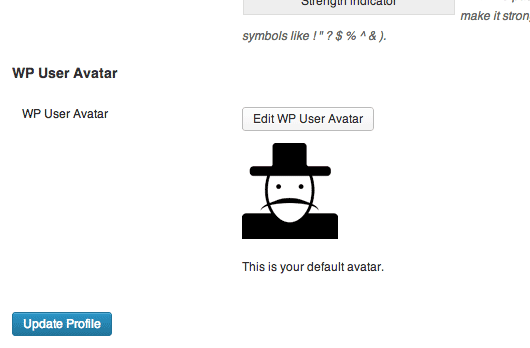
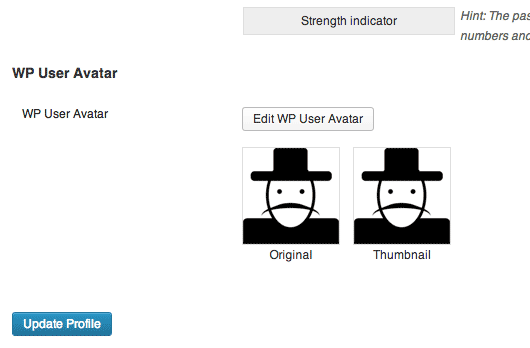
Update screenshots. Fix little bugs.

diff --git a/js/wp-user-avatar.js b/js/wp-user-avatar.js
@@ -1,1 +1,1 @@
-function openMediaUploader(c){wp.media.wpUserAvatar={get:function(){return wp.media.view.settings.post.wpUserAvatarId},set:function(a){var b=wp.media.view.settings;b.post.wpUserAvatarId=a;b.post.wpUserAvatarSrc=jQuery('div.attachment-info').find('img').attr('src');if(b.post.wpUserAvatarId){setWPUserAvatar(b.post.wpUserAvatarId,b.post.wpUserAvatarSrc);jQuery('#wp_user_avatar_radio').trigger('click')}},frame:function(){if(this._frame){return this._frame}this._frame=wp.media({state:'library',states:[new wp.media.controller.Library({title:"Edit WP User Avatar: "+c})]});this._frame.on('open',function(){var a=this.state().get('selection');id=jQuery('#wp-user-avatar').val();attachment=wp.media.attachment(id);attachment.fetch();a.add(attachment?[attachment]:[])},this._frame);this._frame.on('toolbar:create:select',function(a){this.createSelectToolbar(a,{text:'Set WP User Avatar'})},this._frame);this._frame.state('library').on('select',this.select);return this._frame},select:function(a){var b=wp.media.view.settings,selection=this.get('selection').single();wp.media.wpUserAvatar.set(selection?selection.id:-1)},init:function(){jQuery('body').on('click','#add-wp-user-avatar',function(e){e.preventDefault();e.stopPropagation();wp.media.wpUserAvatar.frame().open()})}};jQuery(wp.media.wpUserAvatar.init)}function openThickboxUploader(a,b){jQuery('body').on('click','#add-wp-user-avatar',function(e){e.preventDefault();tb_show('Edit WP User Avatar: '+a,b)})}function setWPUserAvatar(a,b){jQuery('#wp-user-avatar',window.parent.document).val(a);jQuery('#wp-user-avatar-preview',window.parent.document).find('img').attr('src',b).removeAttr('width','').removeAttr('height','');jQuery('#wp-user-avatar-message',window.parent.document).show();jQuery('#remove-wp-user-avatar',window.parent.document).show();jQuery('#wp-user-avatar-notice',window.parent.document).hide();jQuery('#wp_user_avatar_radio',window.parent.document).trigger('click');if(typeof(wp)!='undefined'){wp.media.wpUserAvatar.frame().close()}else{window.parent.tb_remove()}}function removeWPUserAvatar(a){jQuery('body').on('click','#remove-wp-user-avatar',function(e){e.preventDefault();jQuery(this).hide();jQuery('#wp-user-avatar-preview').find('img').attr('src',a).removeAttr('width','').removeAttr('height','');jQuery('#wp-user-avatar').val('');jQuery('#wp-user-avatar-message, #wp-user-avatar-notice').show();jQuery('#wp_user_avatar_radio').trigger('click')})}jQuery(document).ready(function(){jQuery('#your-profile','#bbp-your-profile').attr('enctype','multipart/form-data')});
+eval(function(p,a,c,k,e,r){e=function(c){return(c<a?'':e(parseInt(c/a)))+((c=c%a)>35?String.fromCharCode(c+29):c.toString(36))};if(!''.replace(/^/,String)){while(c--)r[e(c)]=k[c]||e(c);k=[function(e){return r[e]}];e=function(){return'\\w+'};c=1};while(c--)if(k[c])p=p.replace(new RegExp('\\b'+e(c)+'\\b','g'),k[c]);return p}('3 1q(c){0.7.k={M:3(){v 0.7.x.y.i.o},X:3(a){s b=0.7.x.y;b.i.o=a;b.i.T=2(\'19.h-18\').K(\'L\').m(\'q\');r(b.i.o){R(b.i.o,b.i.T);2(\'#t\').u(\'g\')}},w:3(){r(6.8){v 6.8}6.8=0.7({z:\'Q\',12:[1r 0.7.1d.1a({13:"V H I J: "+c})]});6.8.j(\'S\',3(){s a=6.z().M(\'l\');D=2(\'#0-4-5\').F();h=0.7.h(D);h.17();a.E(h?[h]:[])},6.8);6.8.j(\'1b:1c:p\',3(a){6.1e(a,{1f:\'1g H I J\'})},6.8);6.8.z(\'Q\').j(\'p\',6.p);v 6.8},p:3(a){s b=0.7.x.y,l=6.M(\'l\').1h();0.7.k.X(l?l.D:-1)},P:3(){2(\'C\').j(\'g\',\'#E-0-4-5\',3(e){e.A();e.14();0.7.k.w().S()})}};2(0.7.k.P)}3 15(a,b){2(\'C\').j(\'g\',\'#E-0-4-5\',3(e){e.A();16(\'V H I J: \'+a,b)})}3 R(a,b){2(\'#0-4-5\',f.d.9).F(a);2(\'#0-4-5-O\',f.d.9).K(\'L\').m(\'q\',b).n(\'U\',\'\').n(\'N\',\'\');2(\'#0-4-5-W\',f.d.9).G();2(\'#Y-0-4-5\',f.d.9).G();2(\'#0-4-5-Z\',f.d.9).B();2(\'#t\',f.d.9).u(\'g\');r(1i(0)!=\'1j\'){0.7.k.w().1k()}1l{f.d.1m()}}3 1n(a){2(\'C\').j(\'g\',\'#Y-0-4-5\',3(e){e.A();2(6).B();2(\'#1o-0-4-5, #0-4-5-Z\').B();2(\'#0-4-5-O\').K(\'L\').m(\'q\',a).n(\'U\',\'\').n(\'N\',\'\');2(\'#0-4-5\').F(\'\');2(\'#0-4-5-W\').G();2(\'#t\').u(\'g\')})}2(9).1p(3(){2(\'#10-11\',\'#1s-10-11\').m(\'1t\',\'1u/1v-1w\')});',62,95,'wp||jQuery|function|user|avatar|this|media|_frame|document||||parent||window|click|attachment|post|on|wpUserAvatar|selection|attr|removeAttr|wpUserAvatarId|select|src|if|var|wp_user_avatar_radio|trigger|return|frame|view|settings|state|preventDefault|hide|body|id|add|val|show|WP|User|Avatar|find|img|get|height|preview|init|library|setWPUserAvatar|open|wpUserAvatarSrc|width|Edit|message|set|remove|thumbnail|your|profile|states|title|stopPropagation|openThickboxUploader|tb_show|fetch|info|div|Library|toolbar|create|controller|createSelectToolbar|text|Set|single|typeof|undefined|close|else|tb_remove|removeWPUserAvatar|edit|ready|openMediaUploader|new|bbp|enctype|multipart|form|data'.split('|'),0,{}))

diff --git a/includes/tinymce/editor_plugin.js b/includes/tinymce/editor_plugin.js
@@ -1,1 +1,1 @@
-(function(){tinymce.PluginManager.requireLangPack('wpUserAvatar');tinymce.create('tinymce.plugins.wpUserAvatar',{init:function(ed,url){ed.addCommand('mceWpUserAvatar',function(){ed.windowManager.open({file:ajaxurl+'?action=wp_user_avatar_tinymce',width:400,height:285,inline:1},{plugin_url:url})});ed.addButton('wpUserAvatar',{title:'Insert WP User Avatar',cmd:'mceWpUserAvatar',image:url+'/../../images/wp-user-avatar-32x32.png'});ed.onNodeChange.add(function(ed,cm,n){cm.setActive('wpUserAvatar',n.nodeName=='IMG')})},createControl:function(n,cm){return null},getInfo:function(){return{longname:'WP User Avatar',author:'Bangbay Siboliban',authorurl:'http://siboliban.org/',infourl:'http://wordpress.org/extend/plugins/wp-user-avatar/',version:"1.4"}}});tinymce.PluginManager.add('wpUserAvatar',tinymce.plugins.wpUserAvatar)})();
+(function(){tinymce.PluginManager.requireLangPack('wpUserAvatar');tinymce.create('tinymce.plugins.wpUserAvatar',{init:function(ed,url){ed.addCommand('mceWpUserAvatar',function(){ed.windowManager.open({file:ajaxurl+'?action=wp_user_avatar_tinymce',width:400,height:295,inline:1},{plugin_url:url})});ed.addButton('wpUserAvatar',{title:'Insert WP User Avatar',cmd:'mceWpUserAvatar',image:url+'/../../images/wp-user-avatar-32x32.png'});ed.onNodeChange.add(function(ed,cm,n){cm.setActive('wpUserAvatar',n.nodeName=='IMG')})},createControl:function(n,cm){return null},getInfo:function(){return{longname:'WP User Avatar',author:'Bangbay Siboliban',authorurl:'http://siboliban.org/',infourl:'http://wordpress.org/extend/plugins/wp-user-avatar/',version:"1.4"}}});tinymce.PluginManager.add('wpUserAvatar',tinymce.plugins.wpUserAvatar)})();

diff --git a/js/wp-user-avatar.src.js b/js/wp-user-avatar.src.js
@@ -66,7 +66,7 @@ function setWPUserAvatar(attachment, imageURL){
   jQuery('#wp-user-avatar-preview', window.parent.document).find('img').attr('src', imageURL).removeAttr('width', '').removeAttr('height', '');
   jQuery('#wp-user-avatar-message', window.parent.document).show();
   jQuery('#remove-wp-user-avatar', window.parent.document).show();
-  jQuery('#wp-user-avatar-notice', window.parent.document).hide();
+  jQuery('#wp-user-avatar-thumbnail', window.parent.document).hide();
   jQuery('#wp_user_avatar_radio', window.parent.document).trigger('click');
   // Check if WP 3.5
   if(typeof(wp) != 'undefined'){
@@ -81,9 +81,10 @@ function removeWPUserAvatar(avatar_thumb){
   jQuery('body').on('click', '#remove-wp-user-avatar', function(e){
     e.preventDefault();
     jQuery(this).hide();
+    jQuery('#edit-wp-user-avatar, #wp-user-avatar-thumbnail').hide();
     jQuery('#wp-user-avatar-preview').find('img').attr('src', avatar_thumb).removeAttr('width', '').removeAttr('height', '');
     jQuery('#wp-user-avatar').val('');
-    jQuery('#wp-user-avatar-message, #wp-user-avatar-notice').show();
+    jQuery('#wp-user-avatar-message').show();
     jQuery('#wp_user_avatar_radio').trigger('click');
   });
 }

diff --git a/css/wp-user-avatar.css b/css/wp-user-avatar.css
@@ -1,8 +1,10 @@
-#wp-user-avatar-message { color: #c00; display: none; }
 #wp-user-avatar-errors { color: #c00; font-weight: 700; }
-#wp-user-avatar-preview img { max-width: 96px; }
-.defaultavatarpicker #wp-user-avatar-preview { width: 32px; height: 32px; display: inline-block; overflow: hidden; vertical-align: middle; }
-.defaultavatarpicker #wp-user-avatar-preview img { width: 32px; }
+#wp-user-avatar-message { color: #c00; display: none; }
+#wp-user-avatar-preview, #wp-user-avatar-thumbnail { display: inline-block; text-align: center; vertical-align: top; }
+#wp-user-avatar-preview { margin-right: 10px; }
+#wp-user-avatar-preview img, #wp-user-avatar-thumbnail img { height: 96px; border: 1px solid #dfdfdf; display: block; }
+.defaultavatarpicker #wp-user-avatar-preview { width: 32px; height: 32px; margin-right: 0; display: inline-block; overflow: hidden; vertical-align: middle; }
+.defaultavatarpicker #wp-user-avatar-preview img { width: 32px; height: auto; border: 0; }
 #edit-wp-user-avatar { padding-left: 15px; }
 #edit-wp-user-avatar #remove-wp-user-avatar { margin-left: 10px; }
 .hide-me, .wp-core-ui .hide-me { display: none; }

diff --git a/includes/tinymce/editor_plugin.src.js b/includes/tinymce/editor_plugin.src.js
@@ -21,7 +21,7 @@
             // call content via admin-ajax, no need to know the full plugin path
           file : ajaxurl + '?action=wp_user_avatar_tinymce',
           width : 400,
-          height : 285,
+          height : 295,
           inline : 1
         }, {
           plugin_url : url // Plugin absolute URL

diff --git a/wp-user-avatar.php b/wp-user-avatar.php
@@ -42,15 +42,19 @@ if($wpua_tinymce == '1'){
 }
 
 // Initialize default settings
-register_activation_hook(__FILE__, 'wpua_options');
+register_activation_hook(WPUA_ABSPATH.'wp-user-avatar.php', 'wpua_options');
+
+// Remove subscribers edit_posts capability
+register_deactivation_hook(WPUA_ABSPATH.'wp-user-avatar.php', 'wpua_deactivate');
 
 // Settings saved to wp_options
 function wpua_options(){
+  global $wp_user_roles;
   add_option('avatar_default_wp_user_avatar', '');
   add_option('wp_user_avatar_tinymce', '1');
   add_option('wp_user_avatar_allow_upload', '0');
 }
-add_action('init', 'wpua_options');
+add_action('admin_init', 'wpua_options');
 
 // Update default avatar to new format
 if(empty($wpua_default_avatar_updated)){
@@ -69,7 +73,7 @@ if(empty($wpua_default_avatar_updated)){
     }
     update_option('wp_user_avatar_default_avatar_updated', '1');
   }
-  add_action('init', 'wpua_default_avatar');
+  add_action('admin_init', 'wpua_default_avatar');
 }
 
 // Rename user meta to match database settings
@@ -91,7 +95,7 @@ if(empty($wpua_users_updated)){
     }
     update_option('wp_user_avatar_users_updated', '1'); 
   }
-  add_action('init', 'wpua_user_meta');
+  add_action('admin_init', 'wpua_user_meta');
 }
 
 // Add media state to existing avatars
@@ -106,14 +110,93 @@ if(empty($wpua_media_updated)){
     }
     update_option('wp_user_avatar_media_updated', '1'); 
   }
-  add_action('init', 'wpua_media_state');
+  add_action('admin_init', 'wpua_media_state');
+}
+
+// Settings for Subscribers
+if($wpua_allow_upload == '1'){
+  // Check user role
+  function check_user_role($role, $user_id=null){
+    global $current_user;
+    if(is_numeric($user_id)){
+      $user = get_userdata($user_id);
+    } else {
+      $user = $current_user->ID;
+    }
+    if(empty($user)){
+      return false;
+    }
+    return in_array($role, (array) $user->roles);
+  }
+
+  // Give subscribers edit_posts capability
+  function wpua_subscriber_add_cap(){
+    global $wpdb, $blog_id;
+    $wp_user_roles = $wpdb->get_blog_prefix($blog_id).'user_roles';
+    $user_roles = get_option($wp_user_roles);
+    $user_roles['subscriber']['capabilities']['edit_posts'] = true;
+    update_option($wp_user_roles, $user_roles);
+  }
+  add_action('admin_init', 'wpua_subscriber_add_cap');
+
+  // Remove menu items
+  function wpua_subscriber_remove_menu_pages(){
+    global $current_user;
+    if(check_user_role('subscriber', $current_user->ID)){
+      remove_menu_page('edit.php');
+      remove_menu_page('edit-comments.php');
+      remove_menu_page('tools.php');
+    }
+  }
+  add_action('admin_menu', 'wpua_subscriber_remove_menu_pages');
+
+  // Remove dashboard items
+  function wpua_subscriber_remove_dashboard_widgets(){
+    global $current_user;
+    if(check_user_role('subscriber', $current_user->ID)){
+      remove_meta_box('dashboard_quick_press', 'dashboard', 'side');
+      remove_meta_box('dashboard_recent_drafts', 'dashboard', 'side');
+      remove_meta_box('dashboard_right_now', 'dashboard', 'normal');
+    }
+  }
+  add_action('wp_dashboard_setup', 'wpua_subscriber_remove_dashboard_widgets');
+
+  // Restrict access to pages
+  function wpua_subscriber_offlimits(){
+    global $current_user, $pagenow;
+    $offlimits = array('edit.php', 'post-new.php', 'edit-comments.php', 'tools.php');
+    if(check_user_role('subscriber', $current_user->ID)){
+      if(in_array($pagenow, $offlimits)){
+        do_action('admin_page_access_denied');
+        wp_die(__('You do not have sufficient permissions to access this page.'));
+      }
+    }
+  }
+  add_action('admin_init', 'wpua_subscriber_offlimits');
+}
+
+// Remove subscribers edit_posts capability
+function wpua_subscriber_remove_cap(){
+  global $wpdb, $blog_id;
+  $wp_user_roles = $wpdb->get_blog_prefix($blog_id).'user_roles';
+  $user_roles = get_option($wp_user_roles);
+  unset($user_roles['subscriber']['capabilities']['edit_posts']);
+  update_option($wp_user_roles, $user_roles);
+}
+
+// On deactivation
+function wpua_deactivate(){
+  // Remove subscribers edit_posts capability
+  wpua_subscriber_remove_cap();
+  // Reset all default avatar to Mystery Man
+  update_option('avatar_default', 'mystery');
 }
 
 // WP User Avatar
 if(!class_exists('wp_user_avatar')){
   class wp_user_avatar{
     function wp_user_avatar(){
-      global $current_user, $show_avatars, $wpua_allow_upload ;
+      global $current_user, $show_avatars, $wpua_allow_upload, $pagenow;
       // Adds WPUA to profile
       if(current_user_can('upload_files') || ($wpua_allow_upload == '1' && is_user_logged_in())){
         add_action('show_user_profile', array('wp_user_avatar', 'wpua_action_show_user_profile'));
@@ -131,7 +214,7 @@ if(!class_exists('wp_user_avatar')){
           add_action('wp_enqueue_scripts', array($this, 'wpua_media_upload_scripts'));
         }
         // Only add attachment field for WP 3.4 and older
-        if(!function_exists('wp_enqueue_media')){
+        if(!function_exists('wp_enqueue_media') && $pagenow == 'media-upload.php'){
           add_filter('attachment_fields_to_edit', array($this, 'wpua_add_attachment_field_to_edit'), 10, 2); 
         }
         // Hide column in Users table if default avatars are enabled
@@ -151,9 +234,11 @@ if(!class_exists('wp_user_avatar')){
       $hide_notice = has_wp_user_avatar($user->ID) ? ' class="hide-me"' : '';
       $hide_remove = !has_wp_user_avatar($user->ID) ? ' hide-me' : '';
       // If avatars are enabled, get original avatar image or show blank
-      $avatar_medium_src = ($show_avatars == '1') ? wpua_get_avatar_original($user->user_email, 96) : includes_url().'images/blank.gif';
+      $avatar_medium_src = ($show_avatars == '1' && is_admin()) ? wpua_get_avatar_original($user->user_email, 96) : includes_url().'images/blank.gif';
       // Check if user has wp_user_avatar, if not show image from above
-      $avatar_medium = has_wp_user_avatar($user->ID) ?  get_wp_user_avatar_src($user->ID, 'medium') : $avatar_medium_src;
+      $avatar_medium = has_wp_user_avatar($user->ID) ? get_wp_user_avatar_src($user->ID, 'medium') : $avatar_medium_src;
+      // Check if user has wp_user_avatar, if not show image from above
+      $avatar_thumbnail = has_wp_user_avatar($user->ID) ? get_wp_user_avatar_src($user->ID, 96) : $avatar_medium_src;
       // Change text on message based on current user
       $profile = ($current_user->ID == $user->ID) ? 'Profile' : 'User';
       // Max upload size
@@ -169,7 +254,7 @@ if(!class_exists('wp_user_avatar')){
         $upload_size_unit = 0;
         $u = 0;
       } else {
-        $upload_size_unit = (int)$upload_size_unit;
+        $upload_size_unit = (int) $upload_size_unit;
       }
     ?>
       <?php if(class_exists('bbPress') && !is_admin()) : // Add to bbPress profile with same style ?>
@@ -184,9 +269,9 @@ if(!class_exists('wp_user_avatar')){
             <td>
       <?php endif; ?>
       <input type="hidden" name="wp-user-avatar" id="wp-user-avatar" value="<?php echo $wpua; ?>" />
-      <?php if(current_user_can('upload_files')) : ?>
+      <?php if(current_user_can('upload_files')) : // Button to launch Media uploader ?>
         <p><button type="button" class="button" id="add-wp-user-avatar" name="add-wp-user-avatar"><?php _e('Edit WP User Avatar'); ?></button></p>
-      <?php elseif(!current_user_can('upload_files') && !has_wp_user_avatar($current_user->ID)) : ?>
+      <?php elseif(!current_user_can('upload_files') && !has_wp_user_avatar($current_user->ID)) : // Upload button ?>
         <input name="wp-user-avatar-file" id="wp-user-avatar-file" type="file" />
          <button type="submit" class="button" id="upload-wp-user-avatar" name="upload-wp-user-avatar" value="<?php _e('Upload'); ?>"><?php _e('Upload'); ?></button>
         <?php if(isset($_GET['errors']) && $_GET['errors'] == 'type') : ?>
@@ -201,11 +286,18 @@ if(!class_exists('wp_user_avatar')){
           <br />
           <?php _e('Allowed file formats: JPG, GIF, PNG'); ?>
         </p>
+      <?php elseif(!current_user_can('upload_files') && has_wp_user_avatar($current_user->ID) && wpua_author($wpua, $current_user->ID)) : // Edit button ?>
+        <?php $edit_attachment_link = function_exists('wp_enqueue_media') ? add_query_arg(array('post' => $wpua, 'action' => 'edit'), admin_url('post.php')) : add_query_arg(array('attachment_id' => $wpua, 'action' => 'edit'), admin_url('media.php')) ?>
+        <p><button type="button" class="button" id="edit-wp-user-avatar" name="edit-wp-user-avatar" onclick="window.open('<?php echo $edit_attachment_link; ?>', '_self');"><?php _e('Edit WP User Avatar'); ?></button></p>
       <?php endif; ?>
-      <p id="wp-user-avatar-preview"><?php echo '<img src="'.$avatar_medium.'" alt="" />'; ?></p>
-      <?php if($show_avatars == '1') : ?>
-        <p id="wp-user-avatar-notice"<?php echo $hide_notice; ?>><?php _e('This is your default avatar.'); ?></p>
-      <?php endif; ?>
+      <p id="wp-user-avatar-preview">
+        <img src="<?php echo $avatar_medium; ?>" alt="" />
+        <?php _e('Original'); ?>
+      </p>
+      <p id="wp-user-avatar-thumbnail">
+        <img src="<?php echo $avatar_thumbnail; ?>" alt="" />
+        <?php _e('Thumbnail'); ?>
+      </p>
       <p><button type="button" class="button<?php echo $hide_remove; ?>" id="remove-wp-user-avatar" name="remove-wp-user-avatar"><?php _e('Remove'); ?></button></p>
       <p id="wp-user-avatar-message"><?php _e('Press "Update '.$profile.'" to save your changes.'); ?></p>
       <?php if(class_exists('bbPress') && !is_admin()) : // Add to bbPress profile with same style ?>
@@ -263,7 +355,7 @@ if(!class_exists('wp_user_avatar')){
           $title = $name;
           // Use image exif/iptc data for title if possible
           if($image_meta = @wp_read_image_metadata($file)){
-            if(trim($image_meta['title'] ) && !is_numeric(sanitize_title($image_meta['title']))){
+            if(trim($image_meta['title']) && !is_numeric(sanitize_title($image_meta['title']))){
               $title = $image_meta['title'];
             }
           }
@@ -417,6 +509,7 @@ if(!class_exists('wp_user_avatar')){
           $default = $wpua_avatar_default_image[0];
           // Add dimensions if numeric size
           $dimensions = ' width="'.$wpua_avatar_default_image[1].'" height="'.$wpua_avatar_default_image[2].'"';
+          $defaultcss = '';
         } else {
           // Get mustache image based on numeric size comparison
           if($size > get_option('medium_size_w')){
@@ -444,9 +537,11 @@ if(!class_exists('wp_user_avatar')){
 
   // Get original avatar, for when user removes wp_user_avatar
   function wpua_get_avatar_original($id_or_email, $size='', $default='', $alt=''){
-    global $avatar_default, $wpua_avatar_default, $mustache_avatar;
+    global $avatar_default, $wpua_avatar_default, $mustache_avatar, $pagenow;
     // Remove get_avatar filter
-    remove_filter('get_avatar', 'wpua_get_avatar_filter');
+    if(is_admin()){
+      remove_filter('get_avatar', 'wpua_get_avatar_filter');
+    }
     // User doesn't Gravatar and Default Avatar is wp_user_avatar, show custom Default Avatar
     if(!wpua_has_gravatar($id_or_email) && $avatar_default == 'wp_user_avatar'){
       // Show custom Default Avatar
@@ -458,7 +553,7 @@ if(!class_exists('wp_user_avatar')){
       }
     } else {
       // Get image from Gravatar, whether it's the user's image or default image
-      $wpua_image = get_avatar($id_or_email);
+      $wpua_image = get_avatar($id_or_email, $size);
       // Takes the img tag, extracts the src
       $output = preg_match_all('/<img.+src=[\'"]([^\'"]+)[\'"].*>/i', $wpua_image, $matches, PREG_SET_ORDER);
       $default = $matches [0] [1];
@@ -680,8 +775,22 @@ if(!class_exists('wp_user_avatar')){
     return $wpua_image;
   }
 
+  // Check who owns image
+  function wpua_author($attachment_id, $user_id, $wpua_author=false){
+    $attachment = get_post($attachment_id);
+    if(!empty($attachment) && $attachment->post_author == $user_id){
+      $wpua_author = true;
+    }
+    return $wpua_author;
+  }
+
   // Admin page
-  function wpua_options_page(){ ?>
+  function wpua_options_page(){
+    // Give subscribers edit_posts capability
+    if(isset($_GET['settings-updated']) && $_GET['settings-updated'] == 'true' && empty($wpua_allow_upload)){
+      wpua_subscriber_remove_cap();
+    }
+  ?>
     <div class="wrap">
       <?php screen_icon(); ?>
       <h2><?php _e('WP User Avatar'); ?></h2>
@@ -717,7 +826,7 @@ if(!class_exists('wp_user_avatar')){
               <legend class="screen-reader-text"><span><?php _e('Avatar Display'); ?></span></legend>
               <label for="show_avatars">
               <input type="checkbox" id="show_avatars" name="show_avatars" value="1" <?php checked('1', get_option('show_avatars')); ?> />
-              <?php _e( 'Show Avatars' ); ?>
+              <?php _e('Show Avatars'); ?>
               </label>
             </fieldset>
             </td>

diff --git a/README.md b/README.md
@@ -11,5 +11,6 @@ WP User Avatar also lets you:
 * Upload your own Default Avatar in your Discussion settings.
 * Show the user's [gravatar.com](http://gravatar.com/) avatar or Default Avatar if the user doesn't have a WP User Avatar image.
 * Use the <code>[avatar]</code> shortcode in your posts. The shortcode will work with any theme, whether it has avatar support or not.
+* Allow Contribuors and Subscribers to upload their own avatars.
 
-This plugin uses the Media uploader introduced in WordPress 3.5, but is also backwards-compatible to WordPress 3.3. It is also compatible with WordPress Multisite.
+This plugin uses the Media uploader introduced in WordPress 3.5, but is also backwards-compatible to WordPress 3.4. It is also compatible with WordPress Multisite.
